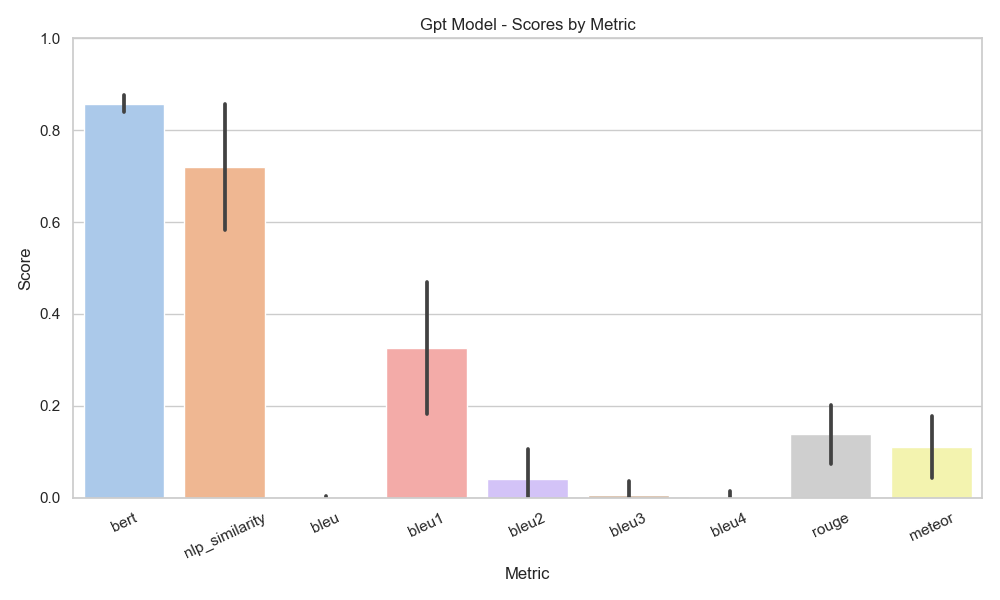
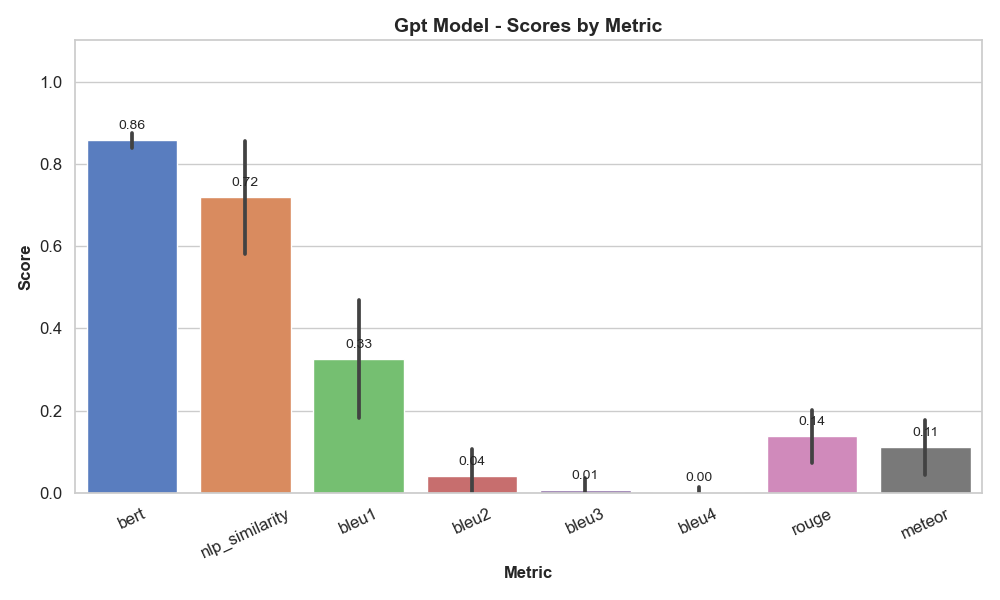
Automatic evaluation with sentence

diff --git a/Auto_Evaluation/1.d_evaluation_result.py b/Auto_Evaluation/1.d_evaluation_result.py
@@ -1,0 +1,86 @@
+import json
+import seaborn as sns
+import matplotlib.pyplot as plt
+import pandas as pd
+
+models = ['full', 'gpt', 'org']
+data = []  # Collect data for the combined grouped histogram
+
+for model in models:
+    current_filename = f"Auto_Evaluation/{model}_clustered_evaluation.json"
+
+    with open(current_filename, 'r') as json_file:
+        json_data = json.load(json_file)
+
+        max_score = {}
+        scores = {metric: [] for metric in [
+            'bert', 'nlp_similarity', 'bleu1', 'bleu2', 'bleu3', 'bleu4', 'rouge', 'meteor'
+        ]}
+
+        # Calculate max scores per case and store in scores dictionary
+        for case in json_data:
+
+            max_score = {metric: case[0][metric] for metric in scores}
+
+            for task in case[1:]:
+                for metric in scores:
+                    max_score[metric] = max(max_score[metric], task[metric])
+
+            for metric, value in max_score.items():
+                scores[metric].append(value)
+                data.append({'Model': model, 'Metric': metric, 'Score': value})  # Add for combined figure
+
+    # Plot each model's metrics as a separate bar plot with Seaborn
+    plt.figure(figsize=(10, 6))
+    sns.set(style="whitegrid")
+    ax = sns.barplot(
+        data=pd.DataFrame(
+            [{'Metric': k, 'Score': v} for k, values in scores.items() for v in values]
+        ),
+        x='Metric', y='Score', errorbar='sd', palette='muted'
+    )
+    
+    # Add score labels on bars
+    for bar in ax.patches:
+        ax.annotate(
+            format(bar.get_height(), ".2f"),
+            (bar.get_x() + bar.get_width() / 2, bar.get_height() + 0.02),  # Offset label above error bar
+            ha='center', va='bottom', fontsize=10
+        )
+
+    plt.xticks(rotation=25, fontsize=12)
+    plt.yticks(fontsize=12)
+    plt.ylim(0.0, 1.1)  # Increased limit for better label visibility
+    plt.title(f'{model.capitalize()} Model - Scores by Metric', fontsize=14, weight='bold')
+    plt.xlabel('Metric', fontsize=12, weight='bold')
+    plt.ylabel('Score', fontsize=12, weight='bold')
+    plt.tight_layout()
+    plt.savefig(f'Auto_Evaluation/{model}_scores_enhanced.png')
+    plt.close()  # Close figure to avoid overlap in loops
+
+# Create DataFrame for combined plot
+df = pd.DataFrame(data)
+
+# Combined grouped bar plot using Seaborn for consistency
+plt.figure(figsize=(12, 8))
+sns.set(style="whitegrid")
+ax = sns.barplot(data=df, x='Metric', y='Score', hue='Model', palette='muted')
+
+# Add score labels on bars for combined plot
+for bar in ax.patches:
+    ax.annotate(
+        format(bar.get_height(), ".2f"),
+        (bar.get_x() + bar.get_width() / 2, bar.get_height() + 0.02),  # Offset label above error bar
+        ha='center', va='bottom', fontsize=10
+    )
+
+plt.xticks(rotation=25, fontsize=12)
+plt.yticks(fontsize=12)
+plt.ylim(0.0, 1.1)  # Increased limit for better label visibility
+plt.title('Model Performance Comparison by Metric', fontsize=16, weight='bold')
+plt.xlabel('Metric', fontsize=12, weight='bold')
+plt.ylabel('Score', fontsize=12, weight='bold')
+plt.legend(title='Model', title_fontsize=12, fontsize=10)
+plt.tight_layout()
+plt.savefig('Auto_Evaluation/all_models_comparison_enhanced.png')
+plt.show()

diff --git a/Auto_Evaluation/1.e_diversity_result.py b/Auto_Evaluation/1.e_diversity_result.py
@@ -1,0 +1,66 @@
+import json
+import seaborn as sns
+import matplotlib.pyplot as plt
+import pandas as pd
+import string
+import numpy as np
+
+models = ['full', 'gpt', 'org']
+data = []  # Collect data for the combined grouped histogram
+
+def calculate_statistics(lengths):
+    if not lengths:
+        return 0, 0, 0, 0  # mean, min, max, std_dev
+    return (
+        np.mean(lengths),
+        np.min(lengths),
+        np.max(lengths),
+        np.std(lengths)
+    )
+
+for model in models:
+    current_filename = f"Auto_Evaluation/{model}_clustered.json"
+
+    with open(current_filename, 'r') as json_file:
+        json_data = json.load(json_file)
+
+    # Initialize variables for calculations
+    vanilla_follow_up_lengths = []
+    cleaned_follow_up_lengths = []
+
+    # Helper function to calculate word count
+    def word_count(text):
+        return len(text.split())
+
+    # Process each dictionary in the data
+    for entry in json_data:
+        generated_follow_ups = entry.get("generated_follow_up", [])
+
+        # Vanilla calculations
+        vanilla_follow_up_lengths.extend([word_count(follow_up) for follow_up in generated_follow_ups])
+
+        # Cleaned calculations (filter follow-ups that end with '?')
+        cleaned_follow_ups = [follow_up for follow_up in generated_follow_ups if follow_up.strip().endswith('?')]
+        cleaned_follow_up_lengths.extend([word_count(follow_up) for follow_up in cleaned_follow_ups])
+
+    # Calculate statistics for vanilla
+    vanilla_mean, vanilla_min, vanilla_max, vanilla_std = calculate_statistics(vanilla_follow_up_lengths)
+
+    # Calculate statistics for cleaned
+    cleaned_mean, cleaned_min, cleaned_max, cleaned_std = calculate_statistics(cleaned_follow_up_lengths)
+
+    # Print results
+    print(f"Model: {model}")
+
+    print("Vanilla Condition:")
+    print(f"Average length of generated follow-ups (words): {vanilla_mean:.2f}")
+    print(f"Shortest follow-up length (words): {vanilla_min}")
+    print(f"Longest follow-up length (words): {vanilla_max}")
+    print(f"Standard deviation of follow-up lengths: {vanilla_std:.2f}")
+
+    print("\nCleaned Condition:")
+    print(f"Average length of generated follow-ups (words): {cleaned_mean:.2f}")
+    print(f"Shortest follow-up length (words): {cleaned_min}")
+    print(f"Longest follow-up length (words): {cleaned_max}")
+    print(f"Standard deviation of follow-up lengths: {cleaned_std:.2f}")
+    print("\n")
